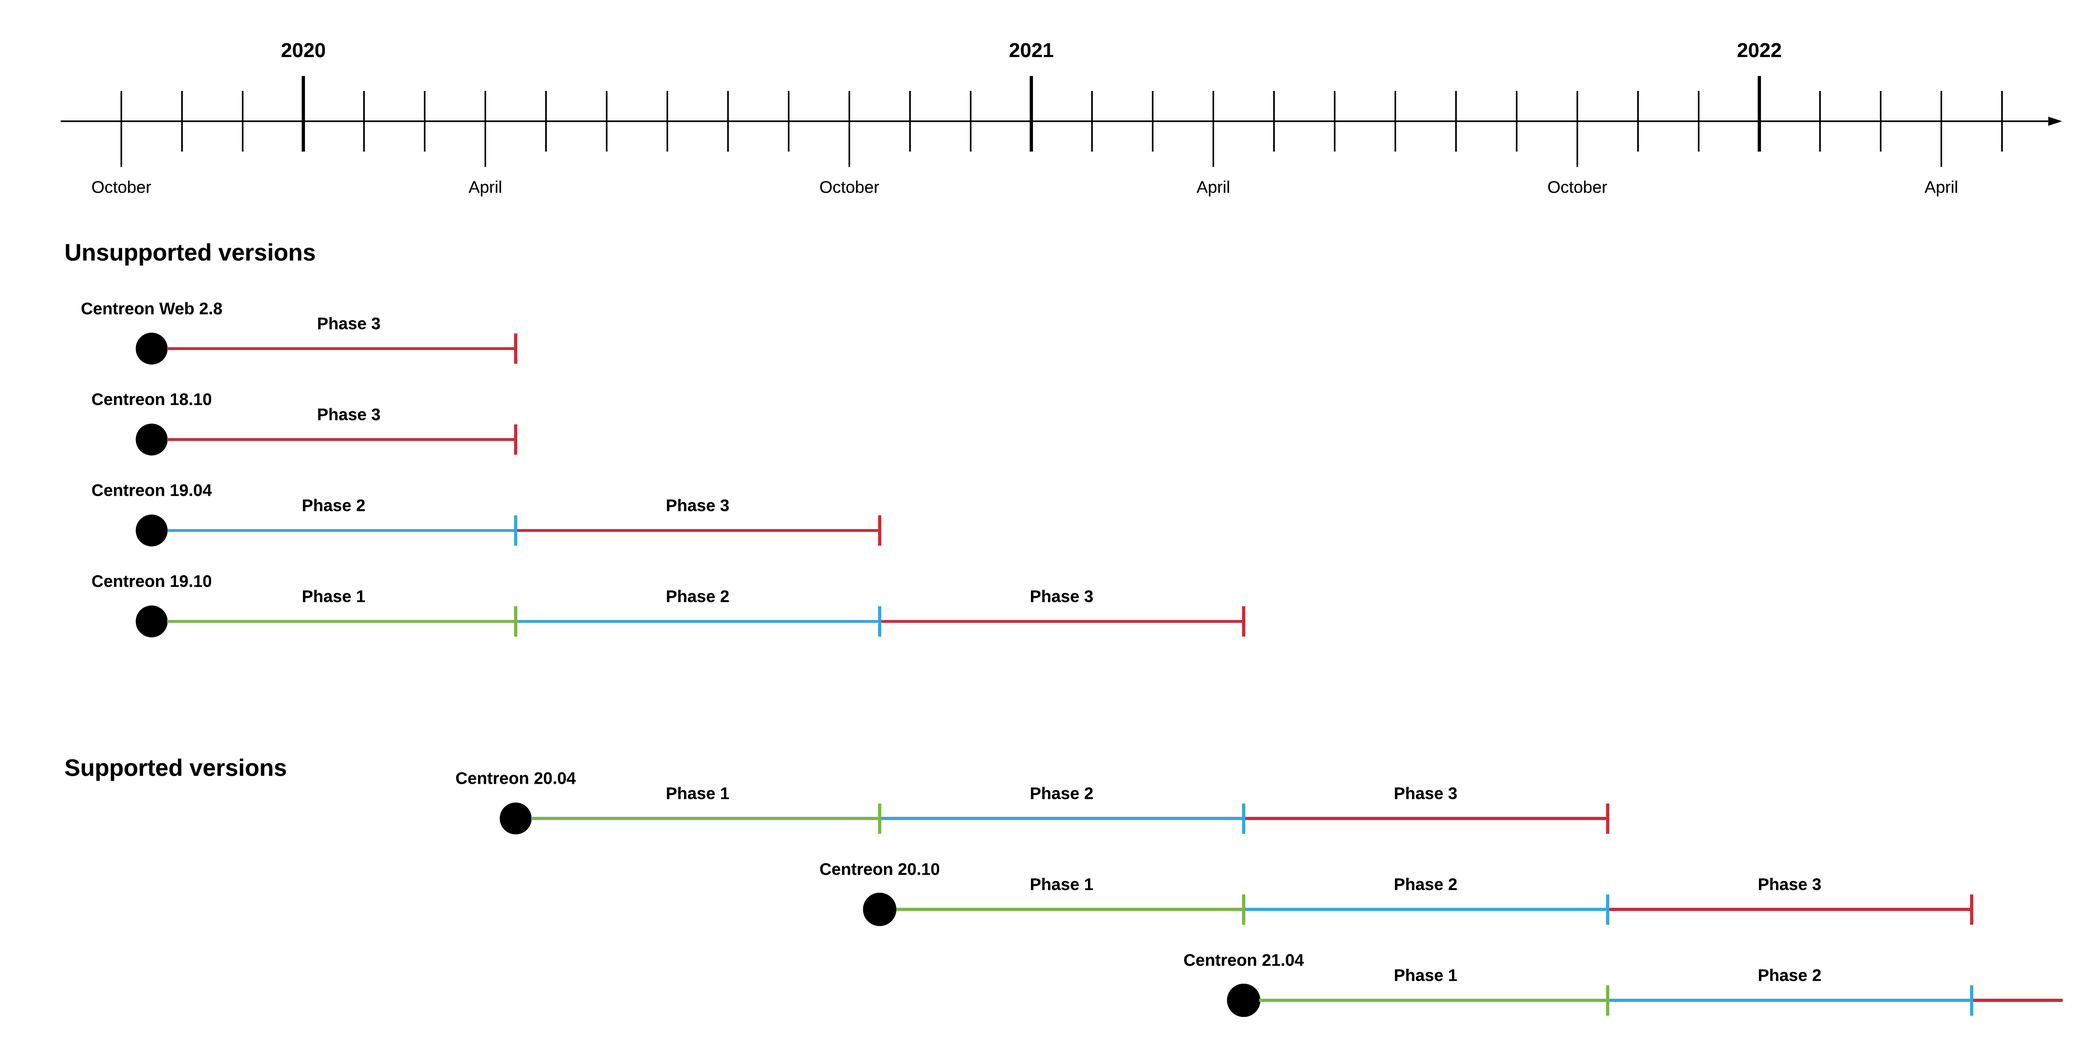
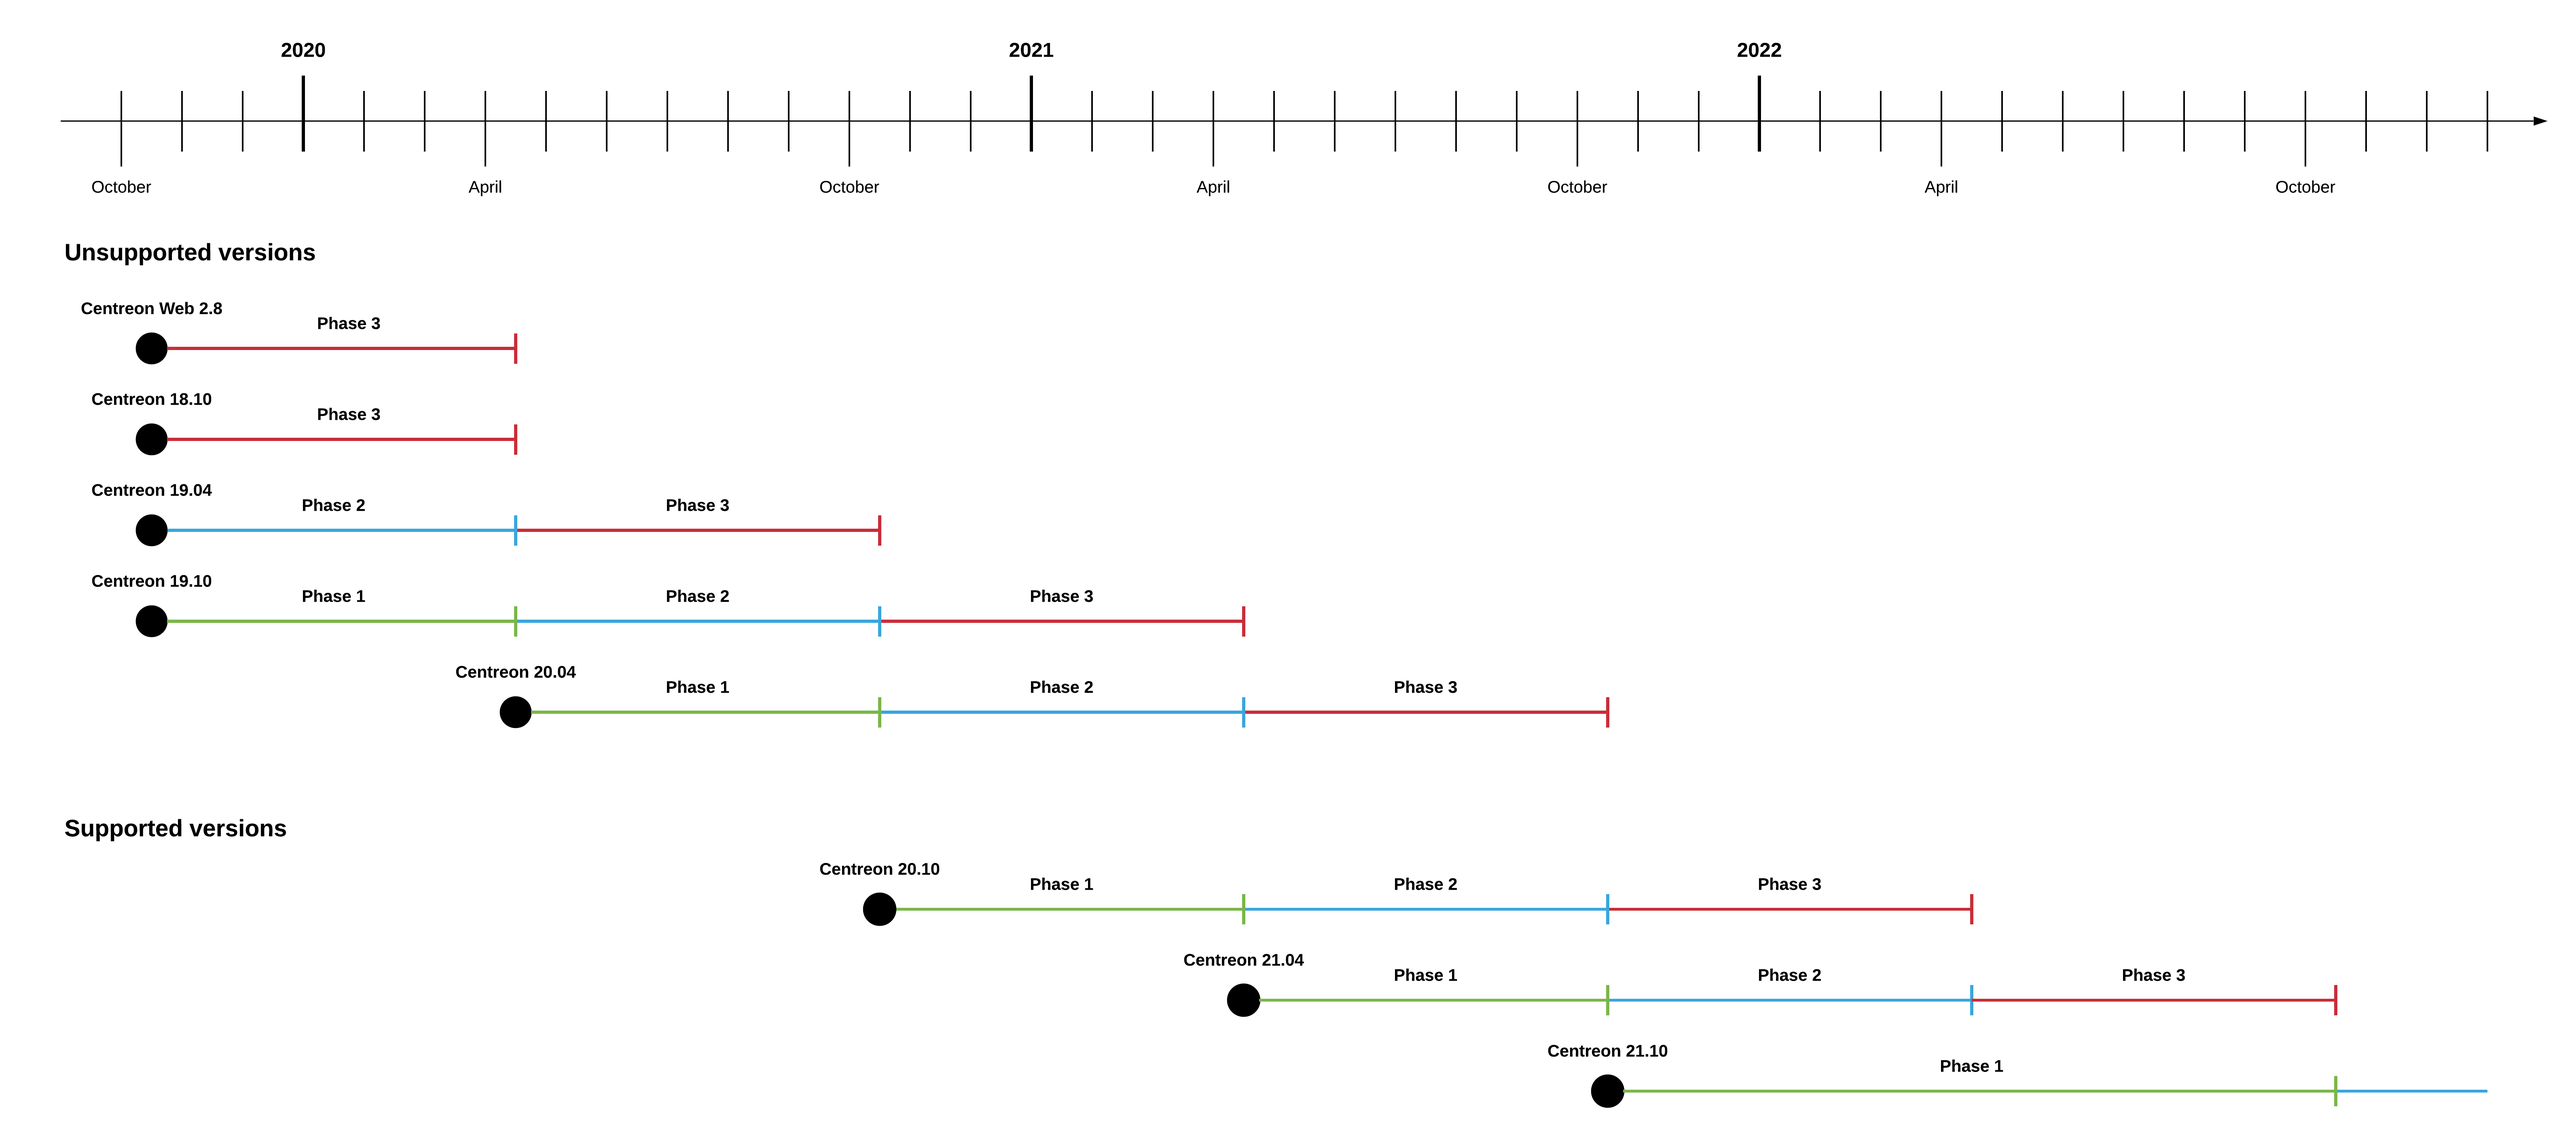
Update chapter on products lifecycle policy (#1021)
* Update chapter on product lifecycle policy

* Update schema

* Changes following review

* Changes following review

* Update table of supported products

* Fix typos

* Improve wording

* Changes following review

diff --git a/fr/releases/lifecycle.md b/fr/releases/lifecycle.md
@@ -3,40 +3,44 @@ id: lifecycle
 title: Politique de cycle de vie des solutions
 ---
 
-À partir de Centreon 18.10, la société Centreon publiera de nouvelles versions
-de Centreon sur une cadence régulière, permettant à la communauté, aux
+La société Centreon publie de nouvelles versions
+de Centreon sur une cadence régulière depuis Centreon 18.10, permettant à la communauté, aux
 entreprises et aux développeurs de planifier leurs feuilles de route avec la
-certitude d’avoir accès aux nouvelles sources ouvertes en amont capacités.
+certitude d’avoir de la visibilité en amont sur les nouvelles capacités offertes par l'open source.
 
-## Les numéros de version sont AA.MM
+## Numéros de version
 
-Les versions de Centreon sont nommées par l'année et le mois de livraison. Par
-exemple, Centreon 21.04 a été livrée en Avril 2020. Tous les modules et
-composants de la collection de logiciels Centreon possède le même numéro de
+Les versions de Centreon sont nommées par l'année et la période de livraison : XX.04 pour la version de printemps,
+et XX.10 pour la version d'automne. Par
+exemple, Centreon 21.04 a été livrée au printemps 2021. Tous les modules et
+composants de la collection de logiciels Centreon possèdent le même numéro de
 version.
 
 ## Cadence de publication
 
-La société Centreon prévoit de publier 2 versions par an. La première en avril
-et la seconde en octobre. Entre ces deux versions majeures, Centreon fournira de
-manière continue des versions mineures, y compris des correctifs de sécurité,
-des correctifs et améliorations.
+La société Centreon publie 2 versions par an. La première sera une version majeure, livrée au printemps
+(comprenant de nouveaux produits ou fonctionnalités ainsi que des changements d'architecture).
+La seconde sera une version mineure, livrée en automne (apportant majoritairement des améliorations et des 
+correctifs aux fonctionnalités existantes). Entre ces deux versions majeures, Centreon fournira de
+manière régulière des versions mineures (numérotées AA.MM.NN), comprenant des correctifs de sécurité,
+des correctifs et des améliorations.
 
 ## Mises à jour de maintenance et de sécurité
 
-Le cycle de vie d'une version est divisé en 3 phases :
+### Jusqu'à la version 21.04
+
+Jusqu'à la version 21.04 incluse, les versions étaient supportées pendant 18 mois. Le cycle de vie d'une version est divisé en 3 phases :
 
 1.  Première phase : bogues de toute criticité (minor, major, critical,
     blocking) et correction de sécurité seront traités par priorité
 2.  Seconde phase : bogues et correction de sécurité de criticité major,
     critical et blocking seront traités par priorité
-3.  Troisième phase : bogues et correction de sécurité de criticité blocking
-    seront traités par priorité
+3. Troisième phase : bogues et correction de sécurité de criticité blocking seront traités par priorité.
 
-> La gravité et la hiérarchisation des bogues sont la responsabilité de l'équipe
-> Centreon
+> La priorisation des bogues est faite par l'équipe produit
+> Centreon.
 
-La première phase commence le cycle de vie de la version.
+La première phase du cycle de vie commence le jour de la sortie de la version.
 
 La deuxième phase d'une version commence lorsque la prochaine version majeure
 est disponible. Par exemple, la publication de Centreon 21.04 lance la deuxième
@@ -46,7 +50,21 @@ La troisième phase d'une version commence lorsque la deuxième version majeure
 suivante est disponible. Par exemple, la sortie de Centreon 21.04 lance la
 troisième phase de Centreon 20.04 et la deuxième phase de Centreon 20.10.
 
-Le schéma présente le cycle de vie Centreon :
+### À partir de la version 21.10
+
+À partir de la version 21.10, les versions sont supportées pendant 2 ans. Le cycle de vie d'une version est divisé en 2 phases de douze mois chacune.
+
+1.  Première phase : bogues de toute criticité (minor, major, critical,
+    blocking) et correction de sécurité seront traités par priorité
+2.  Seconde phase : bogues et correction de sécurité de criticité major,
+    critical et blocking seront traités par priorité.
+
+> La priorisation des bogues est faite par l'équipe produit
+> Centreon.
+
+### Schéma
+
+Le schéma suivant présente le cycle de vie des produits Centreon :
 
 ![image](../assets/releases/lifecycle.png)
 
@@ -55,35 +73,11 @@ Le schéma présente le cycle de vie Centreon :
 > Tous les autres produits non décrits dans les tableaux suivants ne sont plus
 > pris en charge par Centreon.
 
-### Centreon OSS 3.4
-
-| Product                 | Version  | Release date | End of life    | State         |
-| ----------------------- | -------- | ------------ | -------------- | ------------- |
-| Centreon Web            | 2.8.x    | 2016/11/14   | Centreon 20.04 | Not supported |
-| Centreon Engine         | 1.8.x    | 2017/09/19   | Centreon 20.04 | Not supported |
-| Centreon Broker         | 3.0.x    | 2016/11/14   | Centreon 20.04 | Not supported |
-| Centreon DSM            | 2.x      | 2014/09/01   | Centreon 20.04 | Not supported |
-| Centreon Open Tickets   | 1.2.x    | 2016/06/20   | Centreon 20.04 | Not supported |
-| Centreon AWIE           | 1.x      | 2018/04/11   | Centreon 20.04 | Not supported |
-| Centreon Poller Display | 1.5.x    | 2018/04/11   | Centreon 20.04 | Not supported |
-| Centreon Widgets        | 1.x      | N/A          | Centreon 20.04 | Not supported |
-| Centreon Plugins        | YYYYMMDD | N/A          | Centreon 20.04 | Not supported |
-
-### Centreon IMP 3.4
-
-| Product                       | Version | Release date | End of life    | State           |
-| ----------------------------- | ------- | ------------ | -------------- | --------------- |
-| Centreon OSS                  | 3.4     | 2016/11/14   | Centreon 20.04 | Not supported   |
-| Centreon License Manager      | 1.1.x   | 2018/02/23   | Centreon 20.04 | Not supported   |
-| Centreon Plugin Packs Manager | 2.4.x   | 2018/05/30   | Centreon 20.04 | Not supported   |
-| Plugin Packs                  | 3.x     | N/A          | N/A            | All issues      |
-
-### Centreon EMS 3.4
-
-| Product                 | Version | Release date | End of life    | State                     |
-| ----------------------- | ------- | ------------ | -------------- | ------------------------- |
-| Centreon IMP            | 3.4     | 2016/11/14   | Centreon 20.04 | Not supported             |
-| Centreon BAM            | 3.6.x   | 2018/02/22   | Centreon 20.04 | Not supported             |
-| Centreon MAP            | 4.4.x   | 2017/01/02   | Centreon 20.04 | Not supported             |
-| Centreon MBI            | 3.2.x   | 2018/07/09   | Centreon 20.04 | Not supported             |
-| Centreon Auto Discovery | 2.3.x   | 2017/08/24   | Centreon 20.04 | Not supported             |
+| Produit        | Sortie       | Fin de vie à la sortie de | État                |
+|----------------|--------------|---------------------------|---------------------|
+| Centreon 21.04 | 04/2021      | Centreon 22.10            | Supportée           |
+| Centreon 20.10 | 10/2020      | Centreon 22.04            | Supportée           |
+| Centreon 20.04 | 04/2020      | Centreon 21.10            | Plus supportée      |
+| Centreon 19.10 | 10/2019      | Centreon 21.04            | Plus supportée      |
+| Centreon 19.04 | 04/2019      | Centreon 20.10            | Plus supportée      |
+| Centreon 18.10 | 10/2018      | Centreon 20.04            | Plus supportée      |

diff --git a/en/releases/lifecycle.md b/en/releases/lifecycle.md
@@ -3,48 +3,64 @@ id: lifecycle
 title: Products lifecycle policy
 ---
 
-Starting with Centreon version 18.10, Centreon will publish new releases of the
-Centreon solution at a regular cadence, enabling the community, businesses and
-developers to plan their roadmaps with the guarantee of upstream access to the
+Centreon has been publishing new releases of the
+Centreon solution at regular intervals since version 18.10, enabling the community, businesses and
+developers to plan their roadmaps with the guarantee of upstream visibility on the
 latest open source capabilities.
 
-## Version number format: YY.MM
+## Version numbers
 
-Releases of Centreon are named according to the year and the month of delivery.
-For example, Centreon 21.04 was released in April, 2020. All modules and
-components of the Centreon software suite use the same versioning.
+Releases of Centreon are named according to the year and period of delivery: 
+XX.04 for the spring release, and XX.10 for the fall release.
+For example, Centreon 21.04 was released in spring 2021. All modules and
+components of the Centreon software suite use the same version numbers.
 
-## Release cadence
+## Release frequency
 
-Centreon’s action plan is to deliver two major releases per year. The first,
-will occur in April while the second, will be in October. Between these two,
-Centreon will continuously deliver minor updates, patches, security
-vulnerability fixes, bug fixes and enhancements to the software priority/risk
-evaluation that fits into the lifecycle phases.
+Centreon delivers two releases per year. The first
+will occur in the spring and will be major (including new products or features as well as larger architecture changes),
+while the second will be in the fall and will be minor (including primarily enhancements and fixes to existing features). 
+Between these two, Centreon will regularly deliver minor updates (versioned YY.MM.NN), 
+including security/vulnerability fixes, bug fixes and enhancements to the software.
 
 ## Maintenance and security updates
 
-The lifecycle of a version is divided into three phases:
+### Until version 21.04
+
+Version 21.04 and prior versions have been supported for 18 months. The lifecycle of a version is divided into three phases:
 
 1.  First phase: Bugs of all severity levels (minor, major, critical, blocker)
-    and security issues are fixed by priority.
+    and security issues are fixed according to their priority.
 2.  Second phase: Major, critical bugs and blockers, or security issues are
-    fixed by priority.
-3.  Third phase: Blockers or security issues are fixed by priority.
+    fixed according to their priority.
+3.  Third phase: Blockers or security issues are fixed according to their priority.
 
-> The severity and prioritization of bugs are the Centreon team's responsibility.
+> Prioritization is made by Centreon’s Product team.
 
-The first phase begins the lifecycle of the release.
+The first phase of the lifecycle begins on the day of a version release.
 
 The second phase of a version begins when the next major version is available.
-For example, the release of Centreon 21.04 starts the second phase of Centreon
+For example, the release of Centreon 21.04 triggers the second phase of Centreon
 20.10.
 
 The third phase of a version begins when the second next major version is
-available. For example, the release of Centreon 21.04 starts the third phase of
+available. For example, the release of Centreon 21.04 triggers the third phase of
 Centreon 20.04 and the second phase of Centreon 20.10.
 
-This schema shows the Centreon lifecycle:
+### From version 21.10
+
+From version 21.10, versions are supported for 2 years. The lifecycle of a version is divided into 2 phases of 12 months each.
+
+1.  First phase: Bugs of all severity levels (minor, major, critical, blocker)
+    and security issues are fixed according to their priority.
+2.  Second phase: Major, critical bugs and blockers, or security issues are
+    fixed according to their priority.
+
+> Prioritization is made by Centreon’s Product team.
+
+### Version lifecycle diagram
+
+This diagram outlines the Centreon version lifecycle policy:
 
 ![image](../assets/releases/lifecycle.png)
 
@@ -53,35 +69,11 @@ This schema shows the Centreon lifecycle:
 > Any other products not described in the following tables are no longer supported
 > by Centreon.
 
-### Centreon OSS 3.4
-
-| Product                 | Version  | Release date | End of life    | State         |
-| ----------------------- | -------- | ------------ | -------------- | ------------- |
-| Centreon Web            | 2.8.x    | 2016/11/14   | Centreon 20.04 | Not supported |
-| Centreon Engine         | 1.8.x    | 2017/09/19   | Centreon 20.04 | Not supported |
-| Centreon Broker         | 3.0.x    | 2016/11/14   | Centreon 20.04 | Not supported |
-| Centreon DSM            | 2.x      | 2014/09/01   | Centreon 20.04 | Not supported |
-| Centreon Open Tickets   | 1.2.x    | 2016/06/20   | Centreon 20.04 | Not supported |
-| Centreon AWIE           | 1.x      | 2018/04/11   | Centreon 20.04 | Not supported |
-| Centreon Poller Display | 1.5.x    | 2018/04/11   | Centreon 20.04 | Not supported |
-| Centreon Widgets        | 1.x      | N/A          | Centreon 20.04 | Not supported |
-| Centreon Plugins        | YYYYMMDD | N/A          | Centreon 20.04 | Not supported |
-
-### Centreon IMP 3.4
-
-| Product                       | Version | Release date | End of life    | State           |
-| ----------------------------- | ------- | ------------ | -------------- | --------------- |
-| Centreon OSS                  | 3.4     | 2016/11/14   | Centreon 20.04 | Not supported   |
-| Centreon License Manager      | 1.1.x   | 2018/02/23   | Centreon 20.04 | Not supported   |
-| Centreon Plugin Packs Manager | 2.4.x   | 2018/05/30   | Centreon 20.04 | Not supported   |
-| Plugin Packs                  | 3.x     | N/A          | N/A            | All issues      |
-
-### Centreon EMS 3.4
-
-| Product                 | Version | Release date | End of life    | State                     |
-| ----------------------- | ------- | ------------ | -------------- | ------------------------- |
-| Centreon IMP            | 3.4     | 2016/11/14   | Centreon 20.04 | Not supported             |
-| Centreon BAM            | 3.6.x   | 2018/02/22   | Centreon 20.04 | Not supported             |
-| Centreon MAP            | 4.4.x   | 2017/01/02   | Centreon 20.04 | Not supported             |
-| Centreon MBI            | 3.2.x   | 2018/07/09   | Centreon 20.04 | Not supported             |
-| Centreon Auto Discovery | 2.3.x   | 2017/08/24   | Centreon 20.04 | Not supported             |
+| Product        | Release      | End of life with     | State               |
+|----------------|--------------|----------------------|---------------------|
+| Centreon 21.04 | 04/2021      | Centreon 22.10       | Supported           |
+| Centreon 20.10 | 10/2020      | Centreon 22.04       | Supported           |
+| Centreon 20.04 | 04/2020      | Centreon 21.10       | No longer supported |
+| Centreon 19.10 | 10/2019      | Centreon 21.04       | No longer supported |
+| Centreon 19.04 | 04/2019      | Centreon 20.10       | No longer supported |
+| Centreon 18.10 | 10/2018      | Centreon 20.04       | No longer supported |
